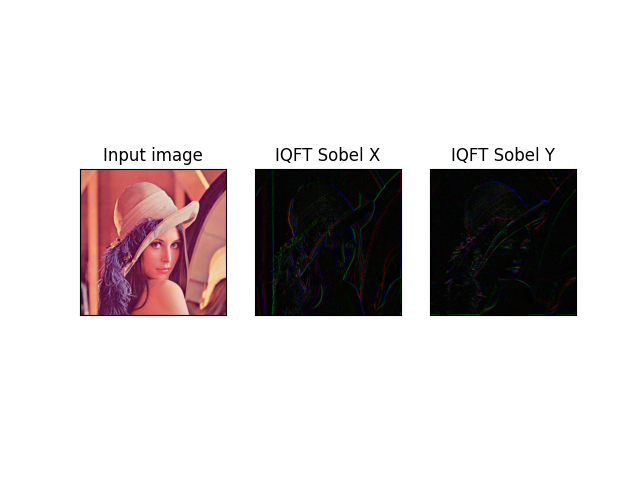
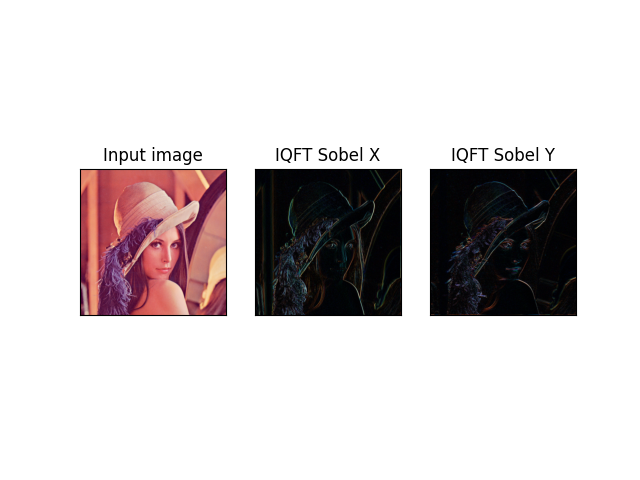
Refactor QFT implementation, update output images, and document mathematical process in README

diff --git a/color-edge-qft.py b/color-edge-qft.py
@@ -1,8 +1,6 @@
 import numpy as np
 import matplotlib.pyplot as plt
-from scipy import signal
 from scipy import fftpack
-import cv2
 
 def img2uint8(img):
     '''
@@ -11,6 +9,9 @@ def img2uint8(img):
 
     vmin = img.min()
     vmax = img.max()
+
+    if vmax == vmin:
+        return np.uint8(img)
 
     img = ((img - vmin) / (vmax - vmin)) * 255.0
 
@@ -47,18 +48,12 @@ def img_qft(img, mu):
     betha = mu[1]
     gamma = mu[2]
 
-    Auv = - (alpha * DFTfr[:, :].imag) - (betha * DFTfg[:, :].imag) - (gamma * DFTfb[:, :].imag)
-    iBuv = DFTfr[:, :].real + (gamma * DFTfg[:, :].imag) - (betha * DFTfb[:, :].imag)
-    jCuv = DFTfg[:, :].real + (alpha * DFTfb[:, :].imag) - (gamma * DFTfr[:, :].imag)
-    kDuv = DFTfb[:, :].real + (betha * DFTfr[:, :].imag) - (alpha * DFTfg[:, :].imag)
+    Auv = - (alpha * DFTfr.imag) - (betha * DFTfg.imag) - (gamma * DFTfb.imag)
+    iBuv = DFTfr.real + (gamma * DFTfg.imag) - (betha * DFTfb.imag)
+    jCuv = DFTfg.real + (alpha * DFTfb.imag) - (gamma * DFTfr.imag)
+    kDuv = DFTfb.real + (betha * DFTfr.imag) - (alpha * DFTfg.imag)
 
-    Fuv = np.zeros((img.shape[0], img.shape[1], 4))
-    Fuv[:, :, 0] = Auv
-    Fuv[:, :, 1] = iBuv
-    Fuv[:, :, 2] = jCuv
-    Fuv[:, :, 3] = kDuv
-
-    return Fuv
+    return np.stack([Auv, iBuv, jCuv, kDuv], axis=-1)
 
 def img_iqft(img_qft, mu):
     """
@@ -93,45 +88,42 @@ def img_iqft(img_qft, mu):
     gamma = mu[2]
 
     fa = (
-        IDFTA[:, :].real - (alpha * IDFTB[:, :].imag) -
-        (betha * IDFTC[:, :].imag) - (gamma * IDFTD[:, :].imag)
+        IDFTA.real - (alpha * IDFTB.imag) -
+        (betha * IDFTC.imag) - (gamma * IDFTD.imag)
     )
     fr = (
-        IDFTB[:, :].real + (alpha * IDFTA[:, :].imag) +
-        (gamma * IDFTC[:, :].imag) - (betha * IDFTD[:, :].imag)
+        IDFTB.real + (alpha * IDFTA.imag) +
+        (gamma * IDFTC.imag) - (betha * IDFTD.imag)
     )
     fg = (
-        IDFTC[:, :].real + (betha * IDFTA[:, :].imag) +
-        (alpha * IDFTD[:, :].imag) - (gamma * IDFTB[:, :].imag)
+        IDFTC.real + (betha * IDFTA.imag) +
+        (alpha * IDFTD.imag) - (gamma * IDFTB.imag)
     )
     fb = (
-        IDFTD[:, :].real + (gamma * IDFTA[:, :].imag) +
-        (betha * IDFTB[:, :].imag) - (alpha * IDFTC[:, :].imag)
+        IDFTD.real + (gamma * IDFTA.imag) +
+        (betha * IDFTB.imag) - (alpha * IDFTC.imag)
     )
 
-    fmn = np.zeros((img_qft.shape[0], img_qft.shape[1], 4))
-    fmn[:, :, 0] = fa
-    fmn[:, :, 1] = fr
-    fmn[:, :, 2] = fg
-    fmn[:, :, 3] = fb
+    return np.stack([fa, fr, fg, fb], axis=-1)
 
-    return fmn
-
-def sobel_filter_qft(f):
+def sobel_filter_qft(f, mu=[(1 / np.sqrt(3))] * 3):
     """
-    Vertical and horizontal sobel filter in the frequency domain applied to the
-    QFT of the image.
+    Vertical and horizontal Sobel filter applying the hypercomplex
+    convolution theorem (Quaternion cross multiplication).
 
     Parameters
     ----------
-    f : QFT of the image.
+    f : array-like
+        QFT image in the frequency domain.
+    mu : list, optional
+        Pure quaternion unit axis. Default is the gray axis.
 
     Returns
     -------
-    Gx : complex
-        Sobel filter applied horizontally at qft in the frequency domain.
-    Gy : complex
-        Sobel filter applied vertically at qft in the frequency domain.
+    Gx : array-like
+        Horizontal Sobel filter response in the QFT frequency domain.
+    Gy : array-like
+        Vertical Sobel filter response in the QFT frequency domain.
     """
 
     # sobel in x direction
@@ -141,6 +133,7 @@ def sobel_filter_qft(f):
     # sobel in y direction
     sobel_y = np.flip(sobel_x.T, axis=0)
 
+    # Padding (Mismo código que tenías)
     sz_x = (f.shape[0] - sobel_x.shape[0], f.shape[1] - sobel_x.shape[1])
     sobel_x = np.pad(sobel_x, (((sz_x[0] + 1) // 2, sz_x[0] // 2),
                                ((sz_x[1] + 1) // 2, sz_x[1] // 2)), 'constant')
@@ -151,71 +144,136 @@ def sobel_filter_qft(f):
                                ((sz_y[1] + 1) // 2, sz_y[1] // 2)), 'constant')
     sobel_y = fftpack.ifftshift(sobel_y)
 
-    Gx = np.zeros((f.shape))
-    Gy = np.zeros((f.shape))
+    # Transformada 2D estándar de los filtros
+    H_x = fftpack.fft2(sobel_x)
+    H_y = fftpack.fft2(sobel_y)
 
-    for i in range(f.shape[2]):
-        if i == 0:
-            Gx[:, :, i] = f[:, :, i] * fftpack.fft2(sobel_x).real
-            Gy[:, :, i] = f[:, :, i] * fftpack.fft2(sobel_y).real
-        else:
-            Gx[:, :, i] = f[:, :, i] * fftpack.fft2(sobel_x).imag
-            Gy[:, :, i] = f[:, :, i] * fftpack.fft2(sobel_y).imag
+    # Extraer partes reales (R) e imaginarias (I)
+    R_x, I_x = H_x.real, H_x.imag
+    R_y, I_y = H_y.real, H_y.imag
+    
+    alpha, betha, gamma = mu[0], mu[1], mu[2]
+    
+    # Componentes del cuaternión de la imagen (A + Bi + Cj + Dk)
+    A = f[:, :, 0]
+    B = f[:, :, 1]
+    C = f[:, :, 2]
+    D = f[:, :, 3]
+
+    def quat_mult(A, B, C, D, R, I):
+        """Multiplicación q1 * q2 con el filtro mapeado al eje mu"""
+        Xi = I * alpha
+        Xj = I * betha
+        Xk = I * gamma
+        
+        # Producto cruzado de cuaterniones
+        out_A = A * R - B * Xi - C * Xj - D * Xk
+        out_B = A * Xi + B * R + C * Xk - D * Xj
+        out_C = A * Xj - B * Xk + C * R + D * Xi
+        out_D = A * Xk + B * Xj - C * Xi + D * R
+        
+        return np.stack([out_A, out_B, out_C, out_D], axis=-1)
+
+    # Aplicar el filtro convolucional en dominio hipercomplejo
+    Gx = quat_mult(A, B, C, D, R_x, I_x)
+    Gy = quat_mult(A, B, C, D, R_y, I_y)
 
     return Gx, Gy
 
 def img_out(F, mu=[(1 / np.sqrt(3))] * 3):
     """
-    Retrieve color image using inverse Fourier transform for quaternions.
+    Transforms the filtered frequency domain image back to the spatial domain,
+    computes the absolute value, and normalizes it to [0, 255] format.
 
     Parameters
     ----------
-    F : Quaternion Fourier transform image.
-    mu : list
-      Pure quaternion unit.
-      e.g., (i + j + k) / sqrt(3) -> [1/sqrt(3), 1/sqrt(3), 1/sqrt(3)]
+    F : array-like
+        The filtered QFT image in the frequency domain (4-D).
+    mu : list, optional
+        Pure quaternion unit axis. Default is the gray axis.
 
-    Return
-    ------
-    Normalized image in [0, 1] range.
+    Returns
+    -------
+    out : array-like
+        The spatial domain image normalized to 8-bit uint8 format.
     """
 
     assert F.shape[2] == 4, "Image is not in qft format"
 
     out = img_iqft(F, mu)
+    
+    # CRÍTICO: Valor absoluto para recuperar bordes con gradiente negativo
+    out = np.abs(out) 
 
     for d in range(out.shape[2]):
-        out[:, :, d] *= 255.0 / np.amax(out[:, :, d])
+        max_val = np.amax(out[:, :, d])
+        if max_val > 0: # Prevenir división por cero si el canal es oscuro
+            out[:, :, d] *= 255.0 / max_val
         out[:, :, d] = np.clip(out[:, :, d], 0, 255)
 
     return np.uint8(out)
-    # return np.uint8(cv2.normalize(out, None, alpha=0, beta=255, norm_type=cv2.NORM_MINMAX, dtype=cv2.CV_32F))
 
 def color_xyedge_det(img, mu=[(1 / np.sqrt(3))] * 3):
     """
     Color image recovered once the horizontal and vertical sobel filter is
     applied.
+
+    Parameters
+    ----------
+    img : array-like
+        Color image [R, G, B].
+    mu : list, optional
+        Pure quaternion unit axis. Default is the gray axis.
+
+    Returns
+    -------
+    out_Gx : array-like
+        Image with the horizontal Sobel filter applied.
+    out_Gy : array-like
+        Image with the vertical Sobel filter applied.
     """
 
     f = img_qft(img, mu)
-    Gx, Gy = sobel_filter_qft(f)
+    Gx, Gy = sobel_filter_qft(f, mu)
 
     return img_out(Gx, mu), img_out(Gy, mu)
 
-def correlate_qft(img, mu=[(1 / np.sqrt(3))] * 3):
+def gradient_magnitude_qft(img, mu=[(1 / np.sqrt(3))] * 3):
     """
-    Retrieve Color Image from Horizontal and Vertical Sobel Filter Correlation.
+    Calculates the final gradient magnitude of the edges by combining the
+    horizontal and vertical Sobel filter responses in the spatial domain.
+
+    Parameters
+    ----------
+    img : array-like
+        Color image [R, G, B].
+    mu : list, optional
+        Pure quaternion unit axis. Default is the gray axis.
+
+    Returns
+    -------
+    magnitude : array-like
+        The combined edge magnitude image normalized to 8-bit uint8 format.
     """
 
     f = img_qft(img, mu)
-    Gx, Gy = sobel_filter_qft(f)
-
-    correlate = np.zeros(f.shape)
-
-    for j in range(f.shape[2]):
-        correlate[:, :, j] = Gx[:, :, j] - Gy[:, :, j]
-
-    return img_out(correlate, mu)
+    Gx, Gy = sobel_filter_qft(f, mu)
+    
+    # 1. Regresar al dominio espacial en crudo (float)
+    out_x = img_iqft(Gx, mu)
+    out_y = img_iqft(Gy, mu)
+    
+    # 2. Magnitud del gradiente euclidiano en el espacio
+    magnitude = np.sqrt(out_x**2 + out_y**2)
+    
+    # 3. Normalizar
+    for d in range(magnitude.shape[2]):
+        max_val = np.amax(magnitude[:, :, d])
+        if max_val > 0:
+            magnitude[:, :, d] *= 255.0 / max_val
+        magnitude[:, :, d] = np.clip(magnitude[:, :, d], 0, 255)
+        
+    return np.uint8(magnitude)
 
 if __name__ == '__main__':
     # Read image
@@ -238,16 +296,16 @@ if __name__ == '__main__':
 
     ax3.imshow(img_sobely[:, :, 1:], cmap='gray')
     ax3.set_title('IQFT Sobel Y'), ax3.set_xticks([]), ax3.set_yticks([])
-    # fig.savefig('sobel-hv.png', transparent=True
+    fig.savefig('./images/sobel-hv.png', transparent=True)
     plt.show()
 
-    # Combine horizontal and vertical sobel filter using correlation
-    correlate = correlate_qft(img)
+    # Combine horizontal and vertical sobel filter to get gradient magnitude
+    grad_mag = gradient_magnitude_qft(img)
 
     plt.figure(figsize=(8, 8))
-    plt.title('Sobel H-V Filter Correlation')
+    plt.title('Sobel H-V Gradient Magnitude')
     plt.xticks([])
     plt.yticks([])
-    plt.imshow(correlate[:, :, 1:], cmap='gray')
-    # plt.savefig('sobel-correlate.png', transparent=True)
+    plt.imshow(grad_mag[:, :, 1:], cmap='gray')
+    plt.savefig('./images/sobel-grad-mag.png', transparent=True)
     plt.show()

diff --git a/README.md b/README.md
@@ -2,11 +2,30 @@
 Edge detection in color (*RGB*) images using sobel filtering and Fourier transform for Quaternions.
 
 ## Sobel horizontal and vertical
-![sobel hv](/images/sobel-hv.png)
+![sobel hv](images/sobel-hv.png)
 
-## Correlate sobel horizontal and vertical
+## Gradient Magnitude (Combined Sobel Horizontal and Vertical)
 
-![sobel correlate ](/images/sobel-correlate.png)
+![sobel gradient magnitude](images/sobel-grad-mag.png)
+
+## Mathematical Background and Process
+
+Traditional edge detection algorithms often convert color images to grayscale, losing critical color boundary information (e.g., a red object on a green background of the same luminance). This project preserves the color vector space by leveraging **Quaternion Mathematics**.
+
+### 1. Color Representation using Quaternions
+A quaternion is a hypercomplex number with one real part and three imaginary parts ($i, j, k$). The algorithm represents each RGB pixel as a pure quaternion, projecting the Red, Green, and Blue channels onto a pure quaternion unit axis $\mu$ (typically the gray axis $\mu = (i + j + k) / \sqrt{3}$):
+$$f(x, y) = R(x,y)\mu_1 + G(x,y)\mu_2 + B(x,y)\mu_3$$
+
+### 2. Quaternion Fourier Transform (QFT)
+Instead of processing color channels in isolation, the image is transformed into the hypercomplex frequency domain using the **QFT**. The code efficiently computes this by taking standard 2D Fast Fourier Transforms (FFT) of each color channel and combining them algebraically to form the four components of the frequency-domain quaternion.
+
+### 3. Hypercomplex Convolution (Frequency Domain Filtering)
+To detect edges, we use the standard 3x3 Sobel kernels (horizontal and vertical). Instead of a spatial sliding window, these kernels are padded and transformed into the frequency domain. 
+According to the **Hypercomplex Convolution Theorem**, convolution in the spatial domain is equivalent to **quaternion cross-multiplication** in the frequency domain. The code performs this cross-multiplication to apply the Sobel filters simultaneously across all color channels.
+
+### 4. Inverse QFT and Gradient Magnitude
+The filtered frequency-domain images are transformed back into the spatial domain via the **Inverse QFT (IQFT)**. Finally, the overall edge map is computed by taking the Euclidean gradient magnitude of the horizontal ($G_x$) and vertical ($G_y$) responses:
+$$Magnitude = \sqrt{G_x^2 + G_y^2}$$
 
 # References
 - [1] Beijing Chen, Gouenou Coatrieux, Gang Chen, Xingming Sun, Jean Louis Coatrieux, Huazhong Shu, Full 4-D quaternion discrete Fourier transform based watermarking for color images, Digital Signal Processing, Volume 28, 2014, Pages 106-119, ISSN 1051-2004, https://doi.org/10.1016/j.dsp.2014.02.010.
